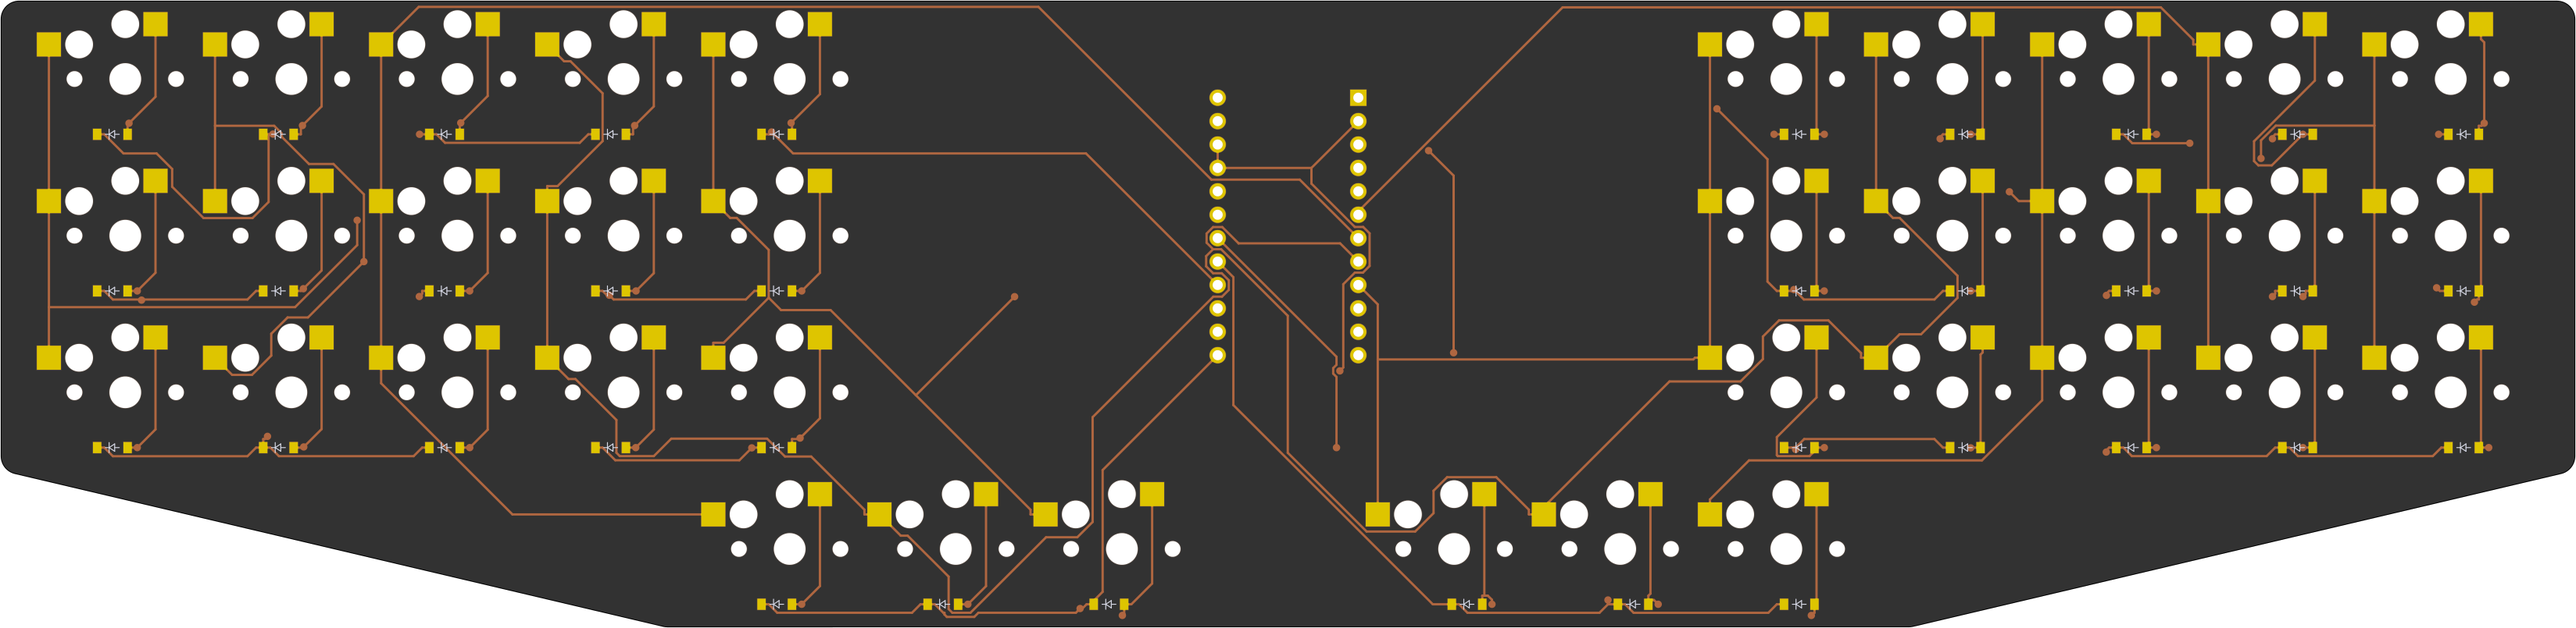
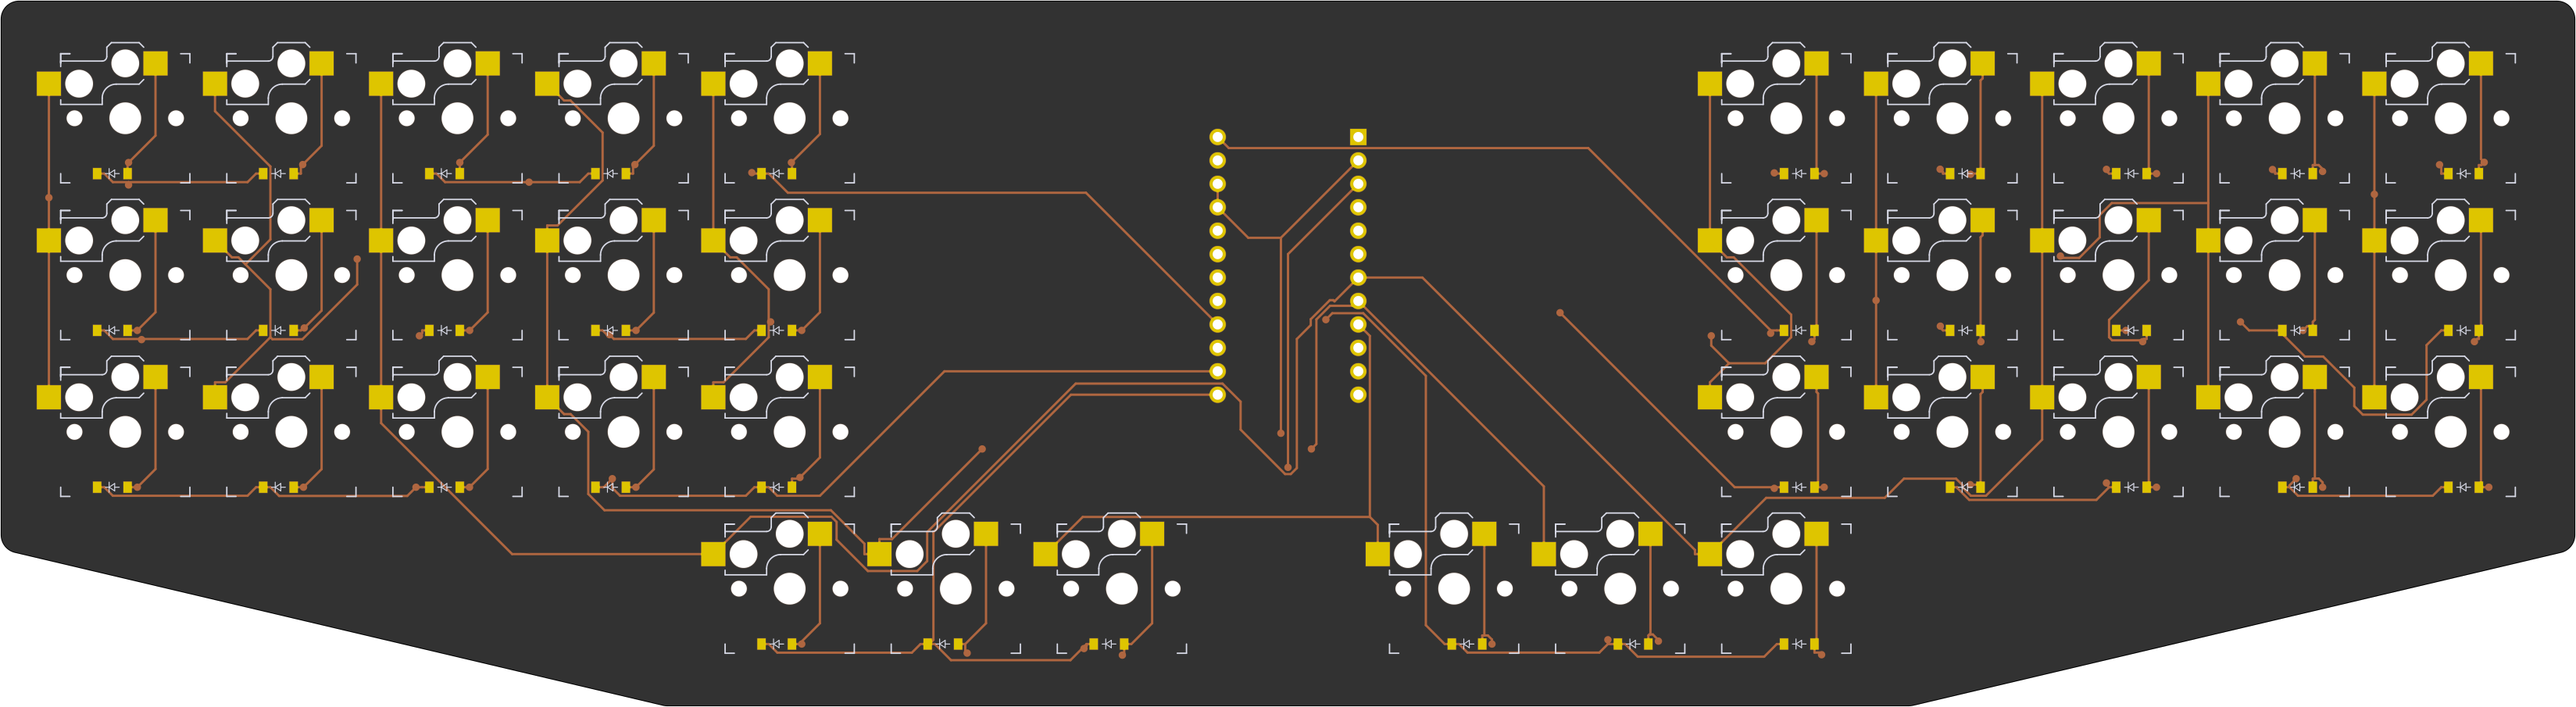
Adds metal text to board - makes some footprints a bit more configurable

diff --git a/input/footprints/choc.js b/input/footprints/choc.js
@@ -1,0 +1,228 @@
+// Author: Ergogen + @infused-kim improvements
+//
+// Kailh Choc PG1350
+// Nets
+//    from: corresponds to pin 1
+//    to: corresponds to pin 2
+// Params
+//    reverse: default is false
+//      if true, will flip the footprint such that the pcb can be reversible
+//    hotswap: default is true
+//      if true, will include holes and pads for Kailh choc hotswap sockets
+//    solder: default is false
+//      if true, will include holes to solder switches (works with hotswap too)
+//    outer_pad_width_front: default 2.6
+//    outer_pad_width_back: default 2.6
+//      Allow you to make the outer hotswap pads smaller to silence DRC
+//      warnings when the sockets are to close to the edge cuts.
+//    show_keycaps: default is true
+//      if true, will add choc sized keycap box around the footprint
+//    keycaps_x: default is 18
+//    keycaps_y: default is 17
+//      Allows you to adjust the width of the keycap outline. For example,
+//      to show a 1.5u outline for easier aligning.
+//
+// notes:
+// - hotswap and solder can be used together. The solder holes will then be
+// - added above the hotswap holes.
+//
+// @infused-kim's improvements:
+//  - Added hotswap socket outlines
+//  - Moved switch corner marks from user layer to silk screen
+//  - Added option to adjust keycap size outlines (to show 1.5u outline)
+//  - Added option to add hotswap sockets and direct soldering holes at the
+//    same time
+//  - Made hotswap pads not overlap holes to fix DRC errors
+//  - Fixed DRC errors "Drilled holes co-located"
+
+module.exports = {
+    params: {
+        designator: 'S',
+        reverse: false,
+        hotswap: true,
+        solder: false,
+        outer_pad_width_front: 2.6,
+        outer_pad_width_back: 2.6,
+        show_keycaps: true,
+        keycaps_x: 18,
+        keycaps_y: 17,
+        from: undefined,
+        to: undefined
+    },
+    body: p => {
+        const common_top = `
+            (module PG1350 (layer F.Cu) (tedit 5DD50112)
+            ${p.at /* parametric position */}
+            (attr virtual)
+
+            ${'' /* footprint reference */}
+            (fp_text reference "${p.ref}" (at 0 0) (layer F.SilkS) ${p.ref_hide} (effects (font (size 1.27 1.27) (thickness 0.15))))
+
+            ${''/* middle shaft */}
+            (pad "" np_thru_hole circle (at 0 0) (size 3.429 3.429) (drill 3.429) (layers *.Cu *.Mask))
+
+            ${''/* stabilizers */}
+            (pad "" np_thru_hole circle (at 5.5 0) (size 1.7018 1.7018) (drill 1.7018) (layers *.Cu *.Mask))
+            (pad "" np_thru_hole circle (at -5.5 0) (size 1.7018 1.7018) (drill 1.7018) (layers *.Cu *.Mask))
+
+            ${''/* corner marks - front */}
+            (fp_line (start -7 -6) (end -7 -7) (layer F.SilkS) (width 0.15))
+            (fp_line (start -7 7) (end -6 7) (layer F.SilkS) (width 0.15))
+            (fp_line (start -6 -7) (end -7 -7) (layer F.SilkS) (width 0.15))
+            (fp_line (start -7 7) (end -7 6) (layer F.SilkS) (width 0.15))
+            (fp_line (start 7 6) (end 7 7) (layer F.SilkS) (width 0.15))
+            (fp_line (start 7 -7) (end 6 -7) (layer F.SilkS) (width 0.15))
+            (fp_line (start 6 7) (end 7 7) (layer F.SilkS) (width 0.15))
+            (fp_line (start 7 -7) (end 7 -6) (layer F.SilkS) (width 0.15))
+
+            ${''/* corner marks - back */}
+            (fp_line (start -7 -6) (end -7 -7) (layer B.SilkS) (width 0.15))
+            (fp_line (start -7 7) (end -6 7) (layer B.SilkS) (width 0.15))
+            (fp_line (start -6 -7) (end -7 -7) (layer B.SilkS) (width 0.15))
+            (fp_line (start -7 7) (end -7 6) (layer B.SilkS) (width 0.15))
+            (fp_line (start 7 6) (end 7 7) (layer B.SilkS) (width 0.15))
+            (fp_line (start 7 -7) (end 6 -7) (layer B.SilkS) (width 0.15))
+            (fp_line (start 6 7) (end 7 7) (layer B.SilkS) (width 0.15))
+            (fp_line (start 7 -7) (end 7 -6) (layer B.SilkS) (width 0.15))
+        `
+
+        const keycap_xo = 0.5 * p.keycaps_x
+        const keycap_yo = 0.5 * p.keycaps_y
+        const keycap_marks = `
+            ${'' /* keycap marks - 1u */}
+            (fp_line (start ${ -keycap_xo } ${ -keycap_yo }) (end ${ keycap_xo } ${ -keycap_yo }) (layer Dwgs.User) (width 0.15))
+            (fp_line (start ${ keycap_xo } ${ -keycap_yo }) (end ${ keycap_xo } ${ keycap_yo }) (layer Dwgs.User) (width 0.15))
+            (fp_line (start ${ keycap_xo } ${ keycap_yo }) (end ${ -keycap_xo } ${ keycap_yo }) (layer Dwgs.User) (width 0.15))
+            (fp_line (start ${ -keycap_xo } ${ keycap_yo }) (end ${ -keycap_xo } ${ -keycap_yo }) (layer Dwgs.User) (width 0.15))
+        `
+
+        const hotswap_common = `
+            ${'' /* Middle Hole */}
+            (pad "" np_thru_hole circle (at 0 -5.95) (size 3 3) (drill 3) (layers *.Cu *.Mask))
+
+        `
+
+        const hotswap_front_pad_cutoff = `
+            (pad 1 smd custom (at -3.275 -5.95 ${p.rot}) (size 1 1) (layers B.Cu B.Paste B.Mask)
+                (zone_connect 0)
+                (options (clearance outline) (anchor rect))
+                (primitives
+                    (gr_poly (pts
+                    (xy -1.3 -1.3) (xy -1.3 0.25) (xy -0.05 1.3) (xy 1.3 1.3) (xy 1.3 -1.3)
+                ) (width 0))
+            ) ${p.from.str})
+        `
+
+        const hotswap_front_pad_full = `
+            (pad 1 smd rect (at -3.275 -5.95 ${p.rot}) (size 2.6 2.6) (layers B.Cu B.Paste B.Mask)  ${p.from.str})
+        `
+
+        const hotswap_front = `
+            ${'' /* Silkscreen outline */}
+            (fp_line (start 7 -7) (end 7 -6) (layer B.SilkS) (width 0.15))
+            (fp_line (start 1.5 -8.2) (end 2 -7.7) (layer B.SilkS) (width 0.15))
+            (fp_line (start 7 -1.5) (end 7 -2) (layer B.SilkS) (width 0.15))
+            (fp_line (start -1.5 -8.2) (end 1.5 -8.2) (layer B.SilkS) (width 0.15))
+            (fp_line (start 7 -7) (end 6 -7) (layer B.SilkS) (width 0.15))
+            (fp_line (start 7 -6.2) (end 2.5 -6.2) (layer B.SilkS) (width 0.15))
+            (fp_line (start 2.5 -2.2) (end 2.5 -1.5) (layer B.SilkS) (width 0.15))
+            (fp_line (start -2 -7.7) (end -1.5 -8.2) (layer B.SilkS) (width 0.15))
+            (fp_line (start -1.5 -3.7) (end 1 -3.7) (layer B.SilkS) (width 0.15))
+            (fp_line (start 7 -5.6) (end 7 -6.2) (layer B.SilkS) (width 0.15))
+            (fp_line (start 2 -6.7) (end 2 -7.7) (layer B.SilkS) (width 0.15))
+            (fp_line (start 2.5 -1.5) (end 7 -1.5) (layer B.SilkS) (width 0.15))
+            (fp_line (start -2 -4.2) (end -1.5 -3.7) (layer B.SilkS) (width 0.15))
+            (fp_arc (start 2.499999 -6.7) (end 2 -6.690001) (angle -88.9) (layer B.SilkS) (width 0.15))
+            (fp_arc (start 0.97 -2.17) (end 2.5 -2.17) (angle -90) (layer B.SilkS) (width 0.15))
+
+            ${'' /* Left Pad*/}
+
+            ${p.reverse ? hotswap_front_pad_cutoff : hotswap_front_pad_full}
+
+            ${'' /* Right Pad (not cut off) */}
+            (pad 2 smd rect (at ${8.275 - (2.6 - p.outer_pad_width_back)/2} -3.75 ${p.rot}) (size ${p.outer_pad_width_back} 2.6) (layers B.Cu B.Paste B.Mask) ${p.to.str})
+
+            ${'' /* Side Hole */}
+            (pad "" np_thru_hole circle (at 5 -3.75 195) (size 3 3) (drill 3) (layers *.Cu *.Mask))
+        `
+
+        const hotswap_back = `
+            ${'' /* Silkscreen outline */}
+            (fp_line (start 2 -4.2) (end 1.5 -3.7) (layer F.SilkS) (width 0.15))
+            (fp_line (start 2 -7.7) (end 1.5 -8.2) (layer F.SilkS) (width 0.15))
+            (fp_line (start -7 -5.6) (end -7 -6.2) (layer F.SilkS) (width 0.15))
+            (fp_line (start 1.5 -3.7) (end -1 -3.7) (layer F.SilkS) (width 0.15))
+            (fp_line (start -2.5 -2.2) (end -2.5 -1.5) (layer F.SilkS) (width 0.15))
+            (fp_line (start -1.5 -8.2) (end -2 -7.7) (layer F.SilkS) (width 0.15))
+            (fp_line (start 1.5 -8.2) (end -1.5 -8.2) (layer F.SilkS) (width 0.15))
+            (fp_line (start -2.5 -1.5) (end -7 -1.5) (layer F.SilkS) (width 0.15))
+            (fp_line (start -2 -6.7) (end -2 -7.7) (layer F.SilkS) (width 0.15))
+            (fp_line (start -7 -1.5) (end -7 -2) (layer F.SilkS) (width 0.15))
+            (fp_line (start -7 -6.2) (end -2.5 -6.2) (layer F.SilkS) (width 0.15))
+            (fp_arc (start -0.91 -2.11) (end -0.8 -3.7) (angle -90) (layer F.SilkS) (width 0.15))
+            (fp_arc (start -2.55 -6.75) (end -2.52 -6.2) (angle -90) (layer F.SilkS) (width 0.15))
+
+            ${'' /* Right Pad (cut off) */}
+            (pad 1 connect custom (at 3.275 -5.95 ${p.rot}) (size 0.5 0.5) (layers F.Cu F.Mask)
+                (zone_connect 0)
+                (options (clearance outline) (anchor rect))
+                (primitives
+                (gr_poly (pts
+                    (xy -1.3 -1.3) (xy -1.3 1.3) (xy 0.05 1.3) (xy 1.3 0.25) (xy 1.3 -1.3)
+                ) (width 0))
+            ) ${p.from.str})
+
+            ${'' /* Left Pad (not cut off) */}
+            (pad 2 smd rect (at ${-8.275 + (2.6 - p.outer_pad_width_front)/2} -3.75 ${p.rot}) (size ${p.outer_pad_width_front} 2.6) (layers F.Cu F.Paste F.Mask) ${p.to.str})
+
+            ${'' /* Side Hole */}
+            (pad "" np_thru_hole circle (at -5 -3.75 195) (size 3 3) (drill 3) (layers *.Cu *.Mask))
+        `
+
+        // If both hotswap and solder are enabled, move the solder holes
+        // "down" to the opposite side of the switch.
+        // Since switches can be rotated by 90 degrees, this won't be a
+        // problem as long as we switch the side the holes are on.
+        let solder_offset_x_front = ''
+        let solder_offset_x_back = '-'
+        let solder_offset_y = '-'
+        if(p.hotswap == true && p.solder == true) {
+            solder_offset_x_front = '-'
+            solder_offset_x_back = ''
+            solder_offset_y = ''
+        }
+        const solder_common = `
+            (pad 2 thru_hole circle (at 0 ${solder_offset_y}5.9 195) (size 2.032 2.032) (drill 1.27) (layers *.Cu *.Mask) ${p.to.str})
+        `
+
+        const solder_front = `
+            (pad 1 thru_hole circle (at ${solder_offset_x_front}5 ${solder_offset_y}3.8 195) (size 2.032 2.032) (drill 1.27) (layers *.Cu *.Mask) ${p.from.str})
+        `
+
+        const solder_back = `
+            (pad 1 thru_hole circle (at ${solder_offset_x_back}5 ${solder_offset_y}3.8 195) (size 2.032 2.032) (drill 1.27) (layers *.Cu *.Mask) ${p.from.str})
+        `
+
+        const common_bottom = `
+        )
+        `
+
+        const final = `
+            ${common_top}
+
+            ${p.show_keycaps ? keycap_marks : ''}
+
+            ${p.hotswap ? hotswap_common : ''}
+            ${p.hotswap ? hotswap_front : ''}
+            ${p.hotswap && p.reverse ? hotswap_back : ''}
+
+            ${p.solder ? solder_common : ''}
+            ${p.solder ? solder_front : ''}
+            ${p.solder && p.reverse ? solder_back : ''}
+
+            ${common_bottom}
+        `
+
+        return final
+    }
+}

diff --git a/input/footprints/text_metal.js b/input/footprints/text_metal.js
@@ -18,12 +18,18 @@ module.exports = {
     }
 
     const front = `
-      (gr_text "${p.text}" ${p.at} (layer F.SilkS)
+      (gr_text "${p.text}" ${p.at} (layer F.Mask)
+        (effects (font (size 1 1) (thickness 0.15)))
+      )
+      (gr_text "${p.text}" ${p.at} (layer F.Cu)
         (effects (font (size 1 1) (thickness 0.15)))
       )
     `
     const back = `
-      (gr_text "${p.text}" ${p.at} (layer B.SilkS)
+      (gr_text "${p.text}" ${p.at} (layer B.Mask)
+        (effects (font (size ${p.h_size} ${p.v_size}) (thickness ${p.thickness})) ${justify})
+      )
+      (gr_text "${p.text}" ${p.at} (layer B.Cu)
         (effects (font (size ${p.h_size} ${p.v_size}) (thickness ${p.thickness})) ${justify})
       )
     `
